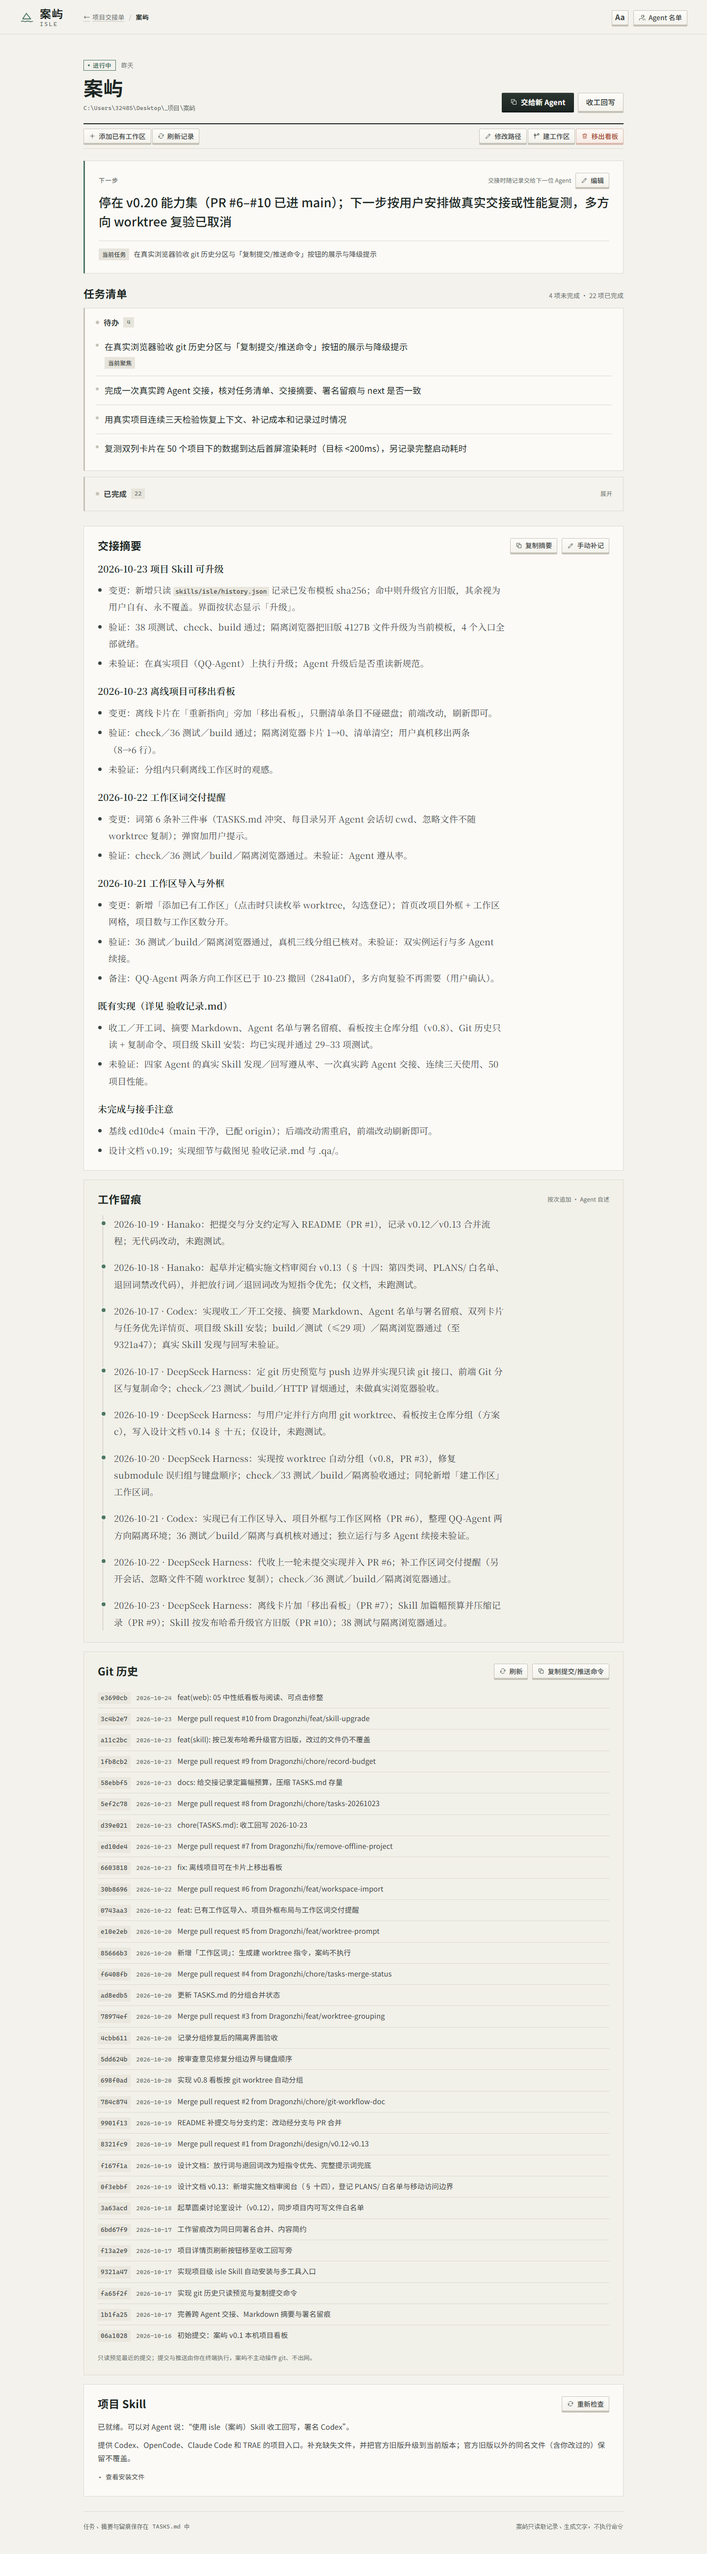
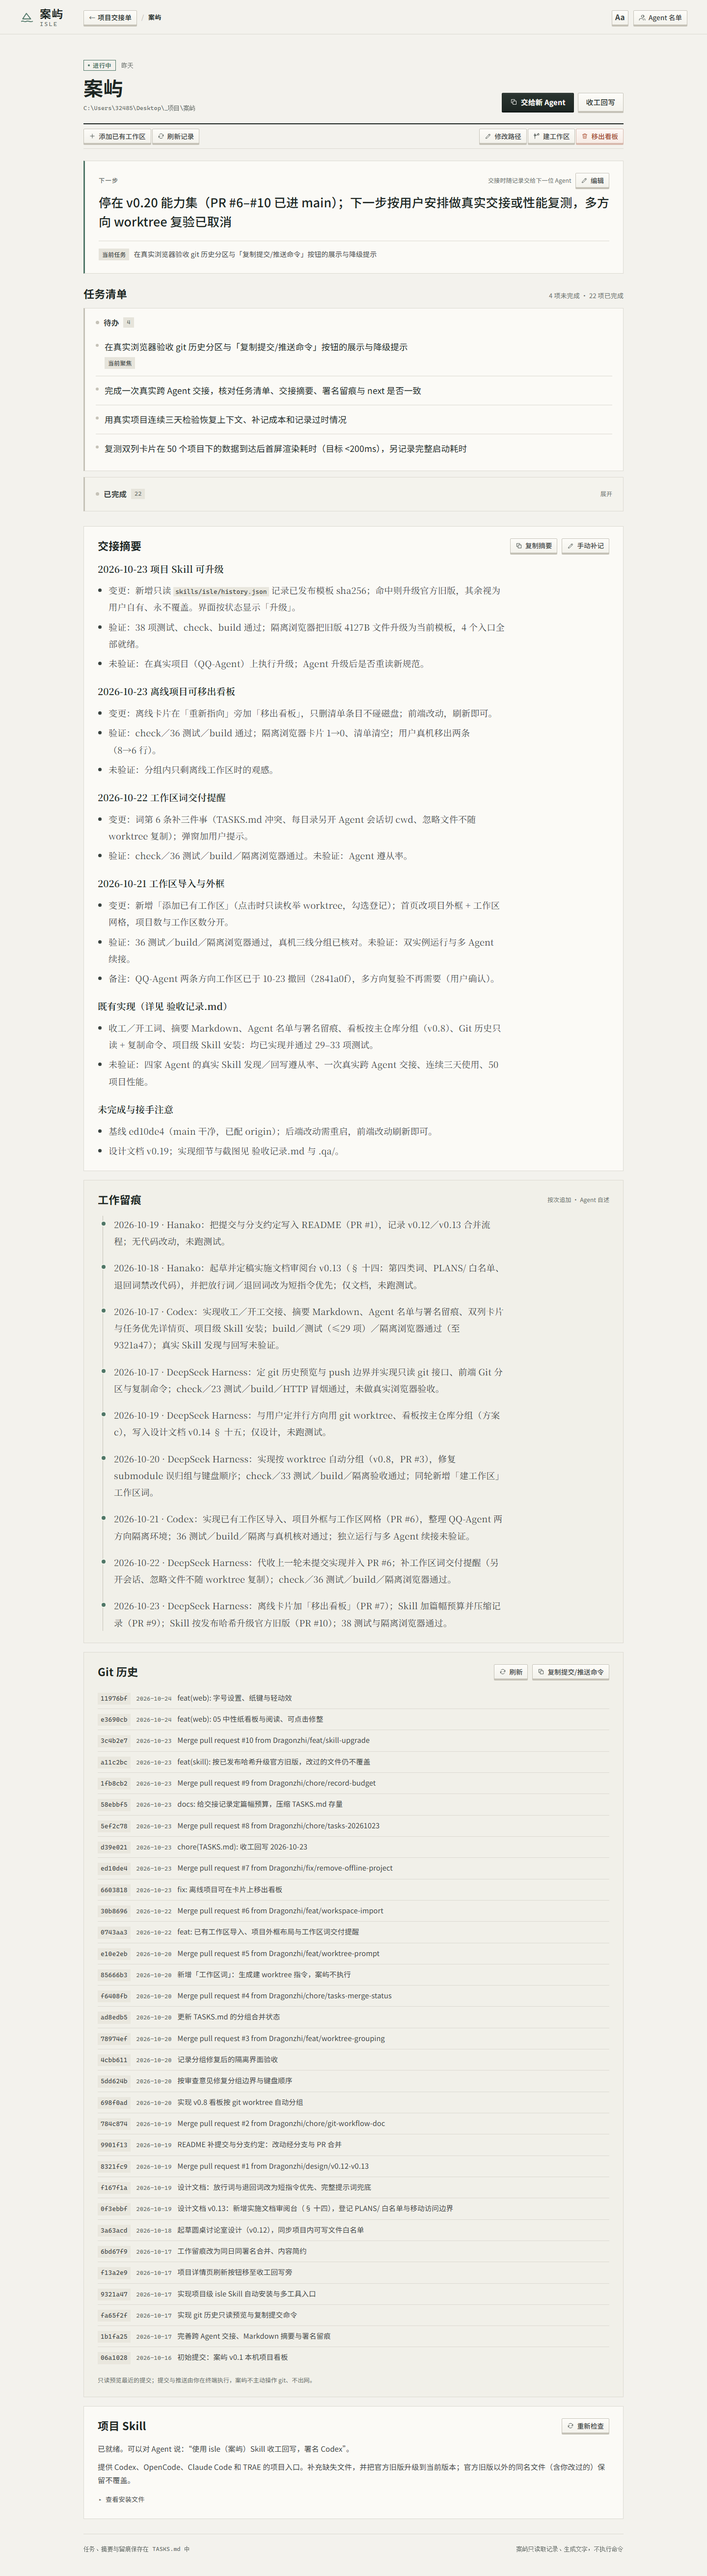
fix(web): 面包屑返回改为明确的纸键按钮

diff --git a/src/main.tsx b/src/main.tsx
@@ -589,13 +589,13 @@ function App() {
   const date = `${now.getFullYear()}年${now.getMonth() + 1}月${now.getDate()}日 ${['周日', '周一', '周二', '周三', '周四', '周五', '周六'][now.getDay()]}`;
   return <div className={styles.app} data-text-size={textSize}>
     <header className={`${styles.siteHeader} ${currentId ? styles.siteHeaderCompact : ''}`}>
-      <a className={styles.brand} href="#" aria-label="案屿项目总览">
+      <a className={styles.brand} href="#" aria-label="案屿项目总览" title="返回项目总览">
         <span className={styles.brandMark}><Icon name="island" /></span>
         <span className={styles.brandName}>案屿<small>ISLE</small></span>
       </a>
       <div className={styles.headerTitle}>
         {currentId ? <nav className={styles.crumb} aria-label="面包屑">
-          <a href="#"><span className={styles.crumbArrow} aria-hidden="true">←</span>项目交接单</a>
+          <a className={`${styles.quietButton} ${styles.crumbBack}`} href="#" title="返回项目交接单"><span className={styles.crumbArrow} aria-hidden="true">←</span>项目交接单</a>
           <span className={styles.crumbSep} aria-hidden="true">/</span>
           <span className={styles.crumbCurrent} aria-current="page">{current?.name || '项目'}</span>
         </nav> : <>

diff --git a/src/App.module.css b/src/App.module.css
@@ -399,6 +399,7 @@
 }
 .brandMark svg { width: 30px; height: 30px; }
 .brandName { display: block; font: 700 23px/1 var(--head); letter-spacing: .03em; }
+.brand:hover .brandName { text-decoration: underline; text-underline-offset: 4px; }
 .brandName small { display: block; margin-top: 4px; font: 12px/1 var(--mono); letter-spacing: .2em; color: var(--muted); }
 .headerTitle { min-width: 0; }
 .headerTitle h1 {
@@ -1366,6 +1367,7 @@
   text-underline-offset: 3px;
 }
 .crumb a:hover { color: var(--ink); text-decoration-color: var(--ink); }
+.crumb .crumbBack, .crumb .crumbBack:hover { padding: 0 10px; color: var(--ink); text-decoration: none; }
 .crumbArrow { color: var(--muted); font-size: 13px; }
 
 .utilityButton { flex: none; }

diff --git a/.design/direction-approved.md b/.design/direction-approved.md
@@ -163,3 +163,20 @@
 - 动效：正常状态 slip `animationName` 为 rise、0.28s；模拟 reduced-motion 后为 `none` / `0s`；
 - 可点击审计仍为空；无控制台错误；
 - 截图：`screenshots/production-settings-standard-1440.png`、`production-settings-large-1440.png`、`production-settings-390.png`、`production-xlarge-320.png`、`production-overview-320.png`、`production-detail-top-1440.png`。
+
+## 面包屑返回按钮（2026-10-24）
+
+用户截图指出详情页顶部的「← 项目交接单」看起来像普通文字，不明显。
+
+处理：
+
+- 把面包屑返回从“带下划线的文字链接”改成纸键按钮：1px 边框、纸面渐变、3px 硬边、hover 上浮、active 下压。
+- 保留 `← 项目交接单 / 当前项目` 的面包屑语义；按钮有 `title="返回项目交接单"`。
+- 品牌区补 `title="返回项目总览"`，hover 时品牌名下划线，提示也可点。
+- 移动端面包屑隐藏，仍保留 `← 返回总览`，不额外占用页头宽度。
+
+验证：
+
+- `npm run check`、`npm test`（38 项）、`npm run build` 通过；生产构建无控制台错误；
+- 可点击审计仍为空；详情页 1440/390 无横向溢出；
+- 截图：`screenshots/production-detail-top-1440.png`。

diff --git a/.design/README.md b/.design/README.md
@@ -17,6 +17,8 @@
 
 **2026-10-24 字号设置与动效：** 默认基础字号提到 17.5px，新增 `Aa` 显示设置（标准 17.5 / 大 19 / 特大 20.5，localStorage 持久化）；按钮改为纸键硬边 + 上浮/按下，Tab 下划线、卡片入场、弹窗与 notice 补了短动效。截图见 `screenshots/production-settings-standard-1440.png`、`production-settings-large-1440.png`、`production-settings-390.png`、`production-xlarge-320.png`。
 
+**2026-10-24 面包屑按钮：** 详情页「← 项目交接单」从小号文字链接改为纸键按钮，保留面包屑语义；截图见 `screenshots/production-detail-top-1440.png`。
+
 打开 `index.html` 看选择页，或直接打开下面三个单文件。每个文件都可以切换项目、打开“交接”弹窗；其余未接入的流程只给诚实提示。
 
 ## 三个方向
